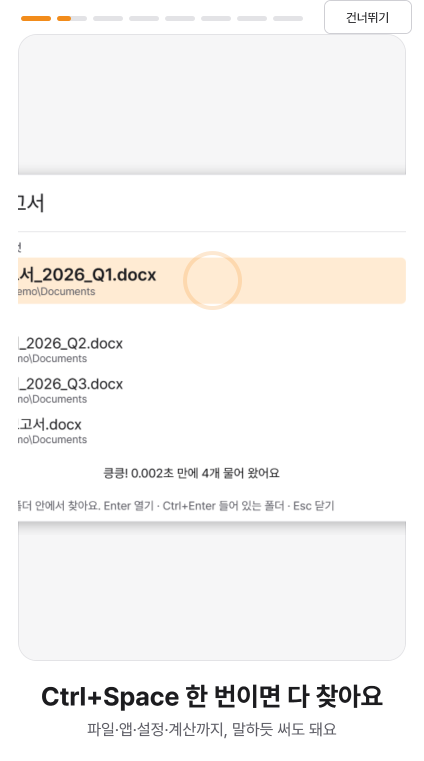
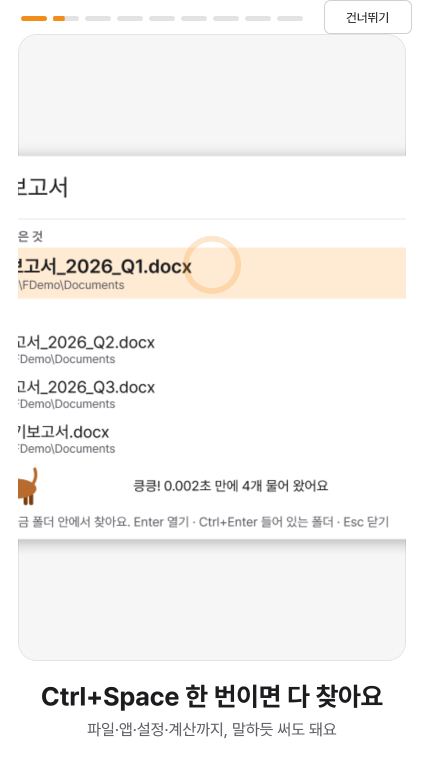
0.9.16: install the newest release in one step (service re-checks right before installing); shorts intro zoomed in and smooth (transform-only animation on every frame, fade between scenes); docs

diff --git a/src/Foldy.App/ShortsWindow.cs b/src/Foldy.App/ShortsWindow.cs
@@ -23,14 +23,14 @@ internal sealed class ShortsWindow : Window
     /// <summary>장면 목록 (다국어 준비: 문구는 여기만).</summary>
     public static readonly Scene[] Scenes =
     [
-        new("main.png", 0.55, 0.4, 1.7, 2.1, "끌어다 놓으면 복사 끝", "두 창 사이로 끌거나 F5 · 이동은 F6"),
-        new("quicksearch.png", 0.38, 0.32, 1.0, 1.2, "Ctrl+Space 한 번이면 다 찾아요", "파일·앱·설정·계산까지, 말하듯 써도 돼요"),
-        new("analysis.png", 0.72, 0.3, 1.5, 1.9, "용량 범인을 한눈에", "큰 상자가 큰 폴더 · 지워도 되는 것만 골라 줘요"),
-        new("guide.png", 0.45, 0.25, 1.05, 1.3, "쌓인 바탕화면, 한 번에 정리", "'바탕화면 보관' 폴더에 달별·종류별로 · 되돌리기 한 번이면 원래대로"),
-        new("organize.png", 0.5, 0.33, 1.3, 1.6, "어지러운 폴더도 종류·날짜별로 정리", "지금과 정리 후를 먼저 보여 줘요 · 지우지 않고 되돌릴 수 있어요"),
-        new("memo.png", 0.72, 0.18, 1.0, 1.3, "비밀번호는 잠긴 메모에", "5분 동안 안 쓰면 저절로 잠겨요"),
-        new("template-picker.png", 0.78, 0.3, 1.2, 1.5, "폴더 구조를 클릭 한 번에", "Java·PARA·Claude 프로젝트 등 · 미리 보고 만들어요"),
-        new("git-changes.png", 0.5, 0.35, 1.5, 1.8, "프로젝트 폴더면 Git이 저절로", "받기·올리기·커밋을 버튼으로"),
+        new("main.png", 0.62, 0.38, 1.65, 1.95, "끌어다 놓으면 복사 끝", "두 창 사이로 끌거나 F5 · 이동은 F6"),
+        new("quicksearch.png", 0.45, 0.3, 1.70, 2.00, "Ctrl+Space 한 번이면 다 찾아요", "파일·앱·설정·계산까지, 말하듯 써도 돼요"),
+        new("analysis.png", 0.8, 0.28, 1.65, 1.90, "용량 범인을 한눈에", "큰 상자가 큰 폴더 · 지워도 되는 것만 골라 줘요"),
+        new("guide.png", 0.5, 0.22, 1.70, 1.95, "쌓인 바탕화면, 한 번에 정리", "'바탕화면 보관' 폴더에 달별·종류별로 · 되돌리기 한 번이면 원래대로"),
+        new("organize.png", 0.55, 0.3, 1.65, 1.90, "어지러운 폴더도 종류·날짜별로 정리", "지금과 정리 후를 먼저 보여 줘요 · 지우지 않고 되돌릴 수 있어요"),
+        new("memo.png", 0.72, 0.17, 1.75, 2.05, "비밀번호는 잠긴 메모에", "5분 동안 안 쓰면 저절로 잠겨요"),
+        new("template-picker.png", 0.76, 0.28, 1.65, 1.90, "폴더 구조를 클릭 한 번에", "Java·PARA·Claude 프로젝트 등 · 미리 보고 만들어요"),
+        new("git-changes.png", 0.55, 0.32, 1.65, 1.90, "프로젝트 폴더면 Git이 저절로", "받기·올리기·커밋을 버튼으로"),
     ];
 
     public const string EndTitle = "이제 시작해 볼까요?";
@@ -40,6 +40,9 @@ internal sealed class ShortsWindow : Window
 
     private readonly Grid _stage = new() { ClipToBounds = true };
     private readonly Image _image = new() { Stretch = Stretch.Fill };
+    private readonly MatrixTransform _move = new();
+    private readonly TranslateTransform _tapMove = new();
+    private readonly ScaleTransform _tapScale = new();
     private readonly Ellipse _tap = new() { Width = 46, Height = 46, StrokeThickness = 4, IsHitTestVisible = false };
     private readonly TextBlock _title = new() { FontSize = 26, FontWeight = FontWeights.Bold, TextWrapping = TextWrapping.Wrap, TextAlignment = TextAlignment.Center };
     private readonly TextBlock _sub = new() { FontSize = 16, TextWrapping = TextWrapping.Wrap, TextAlignment = TextAlignment.Center, Margin = new Thickness(0, 8, 0, 0) };
@@ -47,7 +50,6 @@ internal sealed class ShortsWindow : Window
     private readonly Button _skip = new() { Content = "건너뛰기", MinHeight = 34, MinWidth = 88, Padding = new Thickness(12, 2, 12, 2) };
     private readonly Button _start = new() { Content = "시작하기", MinHeight = 44, MinWidth = 160, FontSize = 17, IsDefault = true, Visibility = Visibility.Collapsed, Margin = new Thickness(0, 18, 0, 0) };
     private readonly Canvas _canvas = new();
-    private readonly DispatcherTimer _clock;
     private readonly string _imageDir;
     private int _index;
     private TimeSpan _elapsed;
@@ -124,13 +126,19 @@ internal sealed class ShortsWindow : Window
         };
         _stage.Cursor = Cursors.Hand;
         PreviewKeyDown += OnKey;
-        _clock = new DispatcherTimer(TimeSpan.FromMilliseconds(33), DispatcherPriority.Render, (_, _) => Tick(), Dispatcher);
+        // 움직임은 화면을 새로 그릴 때마다(모니터 주사율) 변환만 바꾼다: 배치를 다시 하지 않아 끊기지 않는다
+        _image.RenderTransform = _move;
+        RenderOptions.SetBitmapScalingMode(_image, BitmapScalingMode.Linear);
+        _image.CacheMode = new BitmapCache { RenderAtScale = 2 };
+        _tap.RenderTransform = new TransformGroup { Children = { _tapScale, _tapMove } };
+        _tap.Width = _tap.Height = 40;
+        _tapScale.CenterX = _tapScale.CenterY = 20;
         Loaded += (_, _) =>
         {
             Go(0);
-            _clock.Start();
+            CompositionTarget.Rendering += OnFrame;
         };
-        Closed += (_, _) => _clock.Stop();
+        Closed += (_, _) => CompositionTarget.Rendering -= OnFrame;
         if (App.UiScale > 1.001)
         {
             Width *= Math.Min(App.UiScale, 1.15);
@@ -164,6 +172,14 @@ internal sealed class ShortsWindow : Window
         }
 
         _image.Source = _bitmap;
+        if (_bitmap is not null)
+        {
+            _image.Width = _bitmap.PixelWidth / 2.0; // 캡처는 2배로 찍혀 있다: 원래 크기로 두고 변환으로만 확대
+            _image.Height = _bitmap.PixelHeight / 2.0;
+        }
+
+        // 장면이 바뀔 때 부드럽게 (0.35초 동안 서서히 나타남)
+        _canvas.BeginAnimation(OpacityProperty, new System.Windows.Media.Animation.DoubleAnimation(0, 1, TimeSpan.FromMilliseconds(350)));
         _image.Opacity = end ? 0.25 : 1;
         Render();
     }
@@ -218,6 +234,8 @@ internal sealed class ShortsWindow : Window
         e.Handled = true;
     }
 
+    private void OnFrame(object? sender, EventArgs e) => Tick();
+
     private void Tick()
     {
         var now = DateTime.UtcNow;
@@ -242,7 +260,14 @@ internal sealed class ShortsWindow : Window
         {
             var track = (Border)_bars.Children[i];
             var fill = (Border)track.Child;
-            fill.Width = track.Width * (i < _index ? 1 : i == _index ? (_index == Scenes.Length ? 1 : u) : 0);
+            fill.Width = track.Width;
+            var amount = i < _index ? 1 : i == _index ? (_index == Scenes.Length ? 1 : u) : 0;
+            if (fill.RenderTransform is not ScaleTransform st)
+            {
+                fill.RenderTransform = st = new ScaleTransform(0, 1);
+            }
+
+            st.ScaleX = amount;
         }
 
         var w = _canvas.ActualWidth;
@@ -253,45 +278,28 @@ internal sealed class ShortsWindow : Window
             return;
         }
 
-        var scene = _index < Scenes.Length ? Scenes[_index] : new Scene("main.png", 0.5, 0.5, 1, 1, "", "");
-        var iw = _bitmap.PixelWidth / 2.0; // 캡처는 2배로 찍혀 있다
+        var end = _index >= Scenes.Length;
+        var scene = end ? new Scene("main.png", 0.5, 0.5, 1, 1, "", "") : Scenes[_index];
+        var iw = _bitmap.PixelWidth / 2.0;
         var ih = _bitmap.PixelHeight / 2.0;
         var ease = u * u * (3 - (2 * u));
-        var cover = Math.Max(w / iw, h / ih);
-        var fit = Math.Min(w / iw, h / ih);
-        var baseScale = iw / ih > 3 ? h * 0.4 / ih : Math.Max(fit, cover * 0.55); // 넓은 화면은 너무 잘리지 않게 (위아래 여백 허용), 긴 띠(농구 장면)는 크게 보이며 옆으로 흐른다
-        var s = baseScale * (scene.ZoomFrom + ((scene.ZoomTo - scene.ZoomFrom) * ease));
+        // 확대: 장면마다 정한 배율(원래 크기 대비, 글씨가 잘 보이게). 마지막 장은 전체가 흐릿하게 보이게 맞춤
+        var s = end ? Math.Min(w / iw, h / ih) : scene.ZoomFrom + ((scene.ZoomTo - scene.ZoomFrom) * ease);
         var dw = iw * s;
         var dh = ih * s;
-        var fx = iw / ih > 3 ? Lerp(0.15, 0.85, ease) : scene.FocusX;
-        var left = Math.Clamp((w / 2) - (fx * dw), Math.Min(0, w - dw), Math.Max(0, w - dw));
-        var top = Math.Clamp((h / 2) - (scene.FocusY * dh), Math.Min(0, h - dh), Math.Max(0, h - dh));
-        if (dw <= w)
-        {
-            left = (w - dw) / 2;
-        }
-
-        if (dh <= h)
-        {
-            top = (h - dh) / 2;
-        }
-
-        _image.Width = dw;
-        _image.Height = dh;
-        Canvas.SetLeft(_image, left);
-        Canvas.SetTop(_image, top);
+        var left = dw <= w ? (w - dw) / 2 : Math.Clamp((w / 2) - (scene.FocusX * dw), w - dw, 0);
+        var top = dh <= h ? (h - dh) / 2 : Math.Clamp((h / 2) - (scene.FocusY * dh), h - dh, 0);
+        _move.Matrix = new Matrix(s, 0, 0, s, left, top);
 
         // 누를 곳에서 동그라미가 톡톡 (1.4초마다 커지며 흐려진다)
-        var showTap = _index < Scenes.Length && iw / ih <= 3;
-        _tap.Visibility = showTap ? Visibility.Visible : Visibility.Collapsed;
-        if (showTap)
+        _tap.Visibility = end ? Visibility.Collapsed : Visibility.Visible;
+        if (!end)
         {
             var phase = (_elapsed.TotalSeconds % 1.4) / 1.4;
-            var size = 30 + (phase * 36);
-            _tap.Width = _tap.Height = size;
+            _tapScale.ScaleX = _tapScale.ScaleY = 0.75 + (phase * 0.9);
             _tap.Opacity = 1 - phase;
-            Canvas.SetLeft(_tap, left + (scene.FocusX * dw) - (size / 2));
-            Canvas.SetTop(_tap, top + (scene.FocusY * dh) - (size / 2));
+            _tapMove.X = left + (scene.FocusX * dw) - 20;
+            _tapMove.Y = top + (scene.FocusY * dh) - 20;
         }
     }
 

diff --git a/engine/foldy-index/src/update/mod.rs b/engine/foldy-index/src/update/mod.rs
@@ -133,6 +133,8 @@ struct Inner {
     m: Machine,
     st: UpdateState,
     check_requested: bool,
+    /// 설치 요청을 받았다: 설치 직전에 최신 버전을 한 번 더 확인한다
+    refresh_before_install: bool,
     watch: Option<StartWatch>,
     /// 업데이트 폴더 보안 설정이 실패함: 확인·다운로드·설치를 하지 않는다
     unsafe_dir: bool,
@@ -180,7 +182,7 @@ impl UpdateService {
         Arc::new(UpdateService {
             cfg,
             host,
-            inner: Mutex::new(Inner { m: Machine::default(), st: UpdateState::default(), check_requested: false, watch: None, unsafe_dir: false }),
+            inner: Mutex::new(Inner { m: Machine::default(), st: UpdateState::default(), check_requested: false, refresh_before_install: false, watch: None, unsafe_dir: false }),
             kick: Notify::new(),
         })
     }
@@ -231,7 +233,12 @@ impl UpdateService {
             MsgType::InstallWhenIdle => match decode_body::<InstallWhenIdle>(body) {
                 Ok(req) => {
                     let session = choose_session(req.session_id, pipe_session, self.host.active_console_session());
-                    let r = self.lock().m.request_install(InstallRequest { relaunch: req.relaunch, session_id: session });
+                    let mut g = self.lock();
+                    let r = g.m.request_install(InstallRequest { relaunch: req.relaunch, session_id: session });
+                    if r.is_ok() {
+                        g.refresh_before_install = true; // 설치 직전에 최신인지 한 번 더 (중간 버전을 거치지 않게)
+                    }
+                    drop(g);
                     match r {
                         Ok(()) => {
                             self.kick.notify_one();
@@ -311,6 +318,10 @@ impl UpdateService {
             if std::mem::take(&mut self.lock().check_requested) {
                 let s = self.clone();
                 let _ = tokio::task::spawn_blocking(move || s.check_blocking()).await;
+            }
+            if std::mem::take(&mut self.lock().refresh_before_install) {
+                let s = self.clone();
+                let _ = tokio::task::spawn_blocking(move || s.refresh_blocking()).await;
             }
             if self.lock().m.install.is_some() {
                 self.clone().install().await;
@@ -468,6 +479,51 @@ impl UpdateService {
             self.prune(&g.st, &r.path);
         }
         g.m.finish_check(checked);
+        self.save(&g);
+    }
+
+    /// 설치 직전 확인: 준비된 것보다 새 버전이 나왔으면 받아서 그것으로 설치한다 (1.0 → 1.3을 1.1·1.2를 거치지 않고 한 번에).
+    pub fn refresh_blocking(&self) {
+        let (mut st, channel) = {
+            let mut g = self.lock();
+            if g.unsafe_dir || !g.m.begin_refresh() {
+                return;
+            }
+            let mut st = g.st.clone();
+            st.etag = None; // 지난 확인의 "바뀐 것 없음"에 기대지 않고 지금 최신을 본다
+            (st, Self::channel(&g.st))
+        };
+        let result = {
+            let _bg = win::BackgroundPriority::enter();
+            self.run_check(&mut st, channel)
+        };
+        let mut g = self.lock();
+        g.st.etag = st.etag;
+        g.st.etag_channel = st.etag_channel;
+        g.st.last_check_unix = st.last_check_unix;
+        let checked = match result {
+            Ok(Outcome::Ready(p)) => match p.manifest.asset(PackageKind::Msi) {
+                Some(a) if p.mandatory || !g.st.is_skipped(&p.version) => Ok(Checked::Ready(Ready {
+                    version: p.version.clone(),
+                    path: p.path.clone(),
+                    asset: a.clone(),
+                    mandatory: p.mandatory,
+                    notes: p.notes.clone(),
+                })),
+                _ => Ok(Checked::Nothing),
+            },
+            Ok(_) => Ok(Checked::Nothing),
+            Err(e) => Err(e.to_string()),
+        };
+        let before = g.m.ready.as_ref().map(|r| r.version.clone());
+        g.m.finish_refresh(checked);
+        if let Some(r) = g.m.ready.as_ref()
+            && before.as_ref() != Some(&r.version)
+        {
+            self.log(&format!("설치 직전 확인: 더 새 버전 {}으로 바로 설치합니다", r.version));
+            let keep = r.path.clone();
+            self.prune(&g.st, &keep);
+        }
         self.save(&g);
     }
 

diff --git a/engine/foldy-index/src/update/machine.rs b/engine/foldy-index/src/update/machine.rs
@@ -98,6 +98,28 @@ impl Machine {
         true
     }
 
+    /// 설치 직전에 한 번 더 확인 (사용자 요청 2026-11-21: 버전 차이가 크면 중간 버전을 거치지 말고 최신으로 한 번에).
+    /// 설치를 기다리는 중에도 허락한다. 결과가 "새것 없음"이어도 이미 준비된 업데이트는 버리지 않는다(<see cref="finish_refresh"/>).
+    pub fn begin_refresh(&mut self) -> bool {
+        if self.phase.busy() {
+            return false;
+        }
+        self.phase = Phase::Checking;
+        self.progress = (0, 0);
+        true
+    }
+
+    /// 설치 직전 확인의 결과: 더 새 버전이 준비됐으면 그것으로 바꾸고, 그 밖에는 이미 준비된 것을 그대로 쓴다.
+    pub fn finish_refresh(&mut self, r: Result<Checked, String>) {
+        if let Ok(Checked::Ready(newer)) = r
+            && self.ready.as_ref().is_none_or(|old| newer.version > old.version)
+        {
+            self.ready = Some(newer);
+        }
+        self.last_error = None;
+        self.phase = if self.ready.is_some() { Phase::ReadyToInstall } else { Phase::Idle };
+    }
+
     pub fn on_progress(&mut self, done: u64, total: u64) {
         if matches!(self.phase, Phase::Checking | Phase::Downloading) {
             self.phase = Phase::Downloading;
@@ -333,6 +355,33 @@ mod tests {
         m.install_succeeded();
         assert_eq!(m.phase, Phase::Idle);
         assert!(m.ready.is_none());
+    }
+
+    #[test]
+    fn refresh_before_install_switches_to_the_latest_version() {
+        let mut m = Machine::default();
+        m.begin_check();
+        m.finish_check(Ok(Checked::Ready(ready("1.2.3"))));
+        m.request_install(REQ).unwrap();
+        // 설치를 기다리는 동안에도 한 번 더 확인한다: 그사이 1.2.5가 나왔으면 그것으로 한 번에
+        assert!(m.begin_refresh());
+        m.finish_refresh(Ok(Checked::Ready(ready("1.2.5"))));
+        let (r, _) = m.take_install().unwrap();
+        assert_eq!(r.version, Version::new(1, 2, 5));
+    }
+
+    #[test]
+    fn refresh_keeps_the_ready_update_when_nothing_newer_or_offline() {
+        for result in [Ok(Checked::Nothing), Ok(Checked::NotModified), Err("인터넷 없음".to_string()), Ok(Checked::Ready(ready("1.2.2")))] {
+            let mut m = Machine::default();
+            m.begin_check();
+            m.finish_check(Ok(Checked::Ready(ready("1.2.3"))));
+            m.request_install(REQ).unwrap();
+            assert!(m.begin_refresh());
+            m.finish_refresh(result);
+            let (r, _) = m.take_install().unwrap();
+            assert_eq!(r.version, Version::new(1, 2, 3), "새것이 없거나 확인 못 해도 준비된 것으로 설치한다");
+        }
     }
 
     #[test]

diff --git a/docs/DECISIONS.md b/docs/DECISIONS.md
@@ -2,6 +2,15 @@
 
 정한 것을 짧게 남긴다: 날짜, 무엇을, 왜, 다른 안. 최근 것이 위.
 
+## 2026-11-21 · 업데이트는 늘 최신 버전으로 한 번에 (0.9.16, 사용자 요청)
+- **경위**: "버전 차이가 많을 때 여러 번 업데이트하는 것 같다." 서비스는 확인할 때(6시간마다) 받은 버전을 준비해 두는데, 그사이 더 새 버전이 나와도 [재시작하고 업데이트]를 누르면 준비해 둔 예전 버전을 설치하고, 다음 확인에서 또 업데이트했다.
+- **결정**: 설치 요청(InstallWhenIdle)을 받으면 설치 직전에 한 번 더 확인한다(지난 확인 결과에 기대지 않고). 더 새 버전이 있으면 그것을 받아 검증한 뒤 **그것으로 한 번에** 설치한다. 새것이 없거나 인터넷이 안 되면 준비해 둔 것으로 설치한다(설치를 막지 않는다). 기록: "설치 직전 확인: 더 새 버전 x로 바로 설치합니다". 시험: 상태 기계 테스트 2개.
+- **MSI는 중간 버전이 필요 없다**: Foldy MSI는 메이저 업그레이드라 어느 버전에서든 최신으로 바로 올라간다.
+
+## 2026-11-21 · 짧은 소개를 크게, 부드럽게 (0.9.16, 사용자 요청)
+- **경위**: "동영상이 끊기고 내용이 작아서 안 보인다."
+- **결정**: 끊김 원인은 0.033초마다 그림의 너비·위치를 바꿔 화면 배치를 매번 다시 한 것. 이제 그림 크기는 그대로 두고 변환(행렬)만 바꾸며, 모니터가 화면을 새로 그릴 때마다(CompositionTarget.Rendering) 움직인다. 진행 막대도 너비 대신 비율 변환. 장면이 바뀔 때 0.35초 동안 서서히 나타난다. 확대는 화면 캡처 원래 크기의 1.65~2배(글씨가 앱보다 크게 보이게), 누를 곳 둘레만 보인다.
+
 ## 2026-11-21 · 처음 소개는 쇼츠처럼 (0.9.13, 사용자 요청)
 - **경위**: "주요 기능 소개를 처음 실행할 때 안내해 줘. 글을 읽기 싫어하니까 쇼츠처럼 동영상 화면으로."
 - **결정**: 글로 된 5장짜리 둘러보기 대신, 세로 화면의 짧은 소개(ShortsWindow). 장면마다 실제 Foldy 화면(도움말과 같은 캡처)이 천천히 다가가고(줌·이동), 누를 곳에서 동그라미가 톡톡 뛰고, 글은 큰 한 줄 + 작은 한 줄. 5.5초마다 저절로 넘어가고 위쪽 막대가 몇 번째인지 보인다. 오른쪽을 누르면 다음, 왼쪽은 이전, Space 멈춤, Esc·[건너뛰기]는 언제든(같은 자리). 마지막 장은 [시작하기]. 장면(8개, 약 45초): 끌어다 놓기 복사, Ctrl+Space 찾기, 폴더 분석, 바탕화면 정리, 폴더 정리(0.9.14, 사용자 요청), 잠긴 메모, 폴더 구조 템플릿, Git. 처음 안에는 농구 장면이 있었으나 사용자가 "농구 소개는 빼고 좋은 기능을 더"라고 해서 빼고 분석·템플릿·Git을 넣었다.

diff --git a/docs/PROGRESS.md b/docs/PROGRESS.md
@@ -1,4 +1,4 @@
-# Foldy 진행 현황 (2026-11-21 기준, 0.9.15)
+# Foldy 진행 현황 (2026-11-21 기준, 0.9.16)
 
 다음에 이어서 작업할 때 이 문서부터 읽는다. 설계: `docs/DESIGN.md`, 디자인 원칙: `docs/DESIGN-PRINCIPLES.md`, 결정: `docs/DECISIONS.md`, 변경: `CHANGELOG.md`, 시험: `docs/TESTING.md`, 리뷰: `docs/reviews/`.
 
@@ -12,6 +12,7 @@
 - 0.9.7: 탭 줄 SFTP 단추, 서버 트리 한 단계 펼치기.
 - 0.9.8: 수다쟁이 Foldy(원칙 1.4), 업데이트 진행 창, 트리 "불러오는 중".
 - 0.9.9: 이미지만 보기 안내 줄과 [모든 파일 보기].
+- 0.9.16: 설치 직전 최신 확인(중간 버전 건너뛰기), 쇼츠 확대·부드럽게.
 - 0.9.15: 쇼츠는 다시 설치·업데이트 뒤에도 한 번, ? 단추에서 보기.
 - 0.9.14: 쇼츠에 폴더 정리 장면.
 - 0.9.13: 처음 소개를 쇼츠처럼(ShortsWindow).

diff --git a/CHANGELOG.md b/CHANGELOG.md
@@ -1,5 +1,9 @@
 # 변경 기록
 
+## 0.9.16
+- **업데이트는 늘 최신으로 한 번에.** [재시작하고 업데이트]를 누르면 설치 직전에 한 번 더 확인해서, 그사이 더 새 버전이 나왔으면 중간 버전을 거치지 않고 바로 최신을 설치해요.
+- **짧은 소개를 크게, 부드럽게.** 화면을 더 크게 확대하고(글씨가 잘 보이게), 끊기지 않게 매끄럽게 움직이고, 장면이 바뀔 때 서서히 나타나요.
+
 ## 0.9.15
 - 짧은 소개(쇼츠)가 다시 설치하거나 업데이트한 뒤 처음 켤 때도 한 번 보여요 (설정은 다시 묻지 않아요).
 - 사이드바 아래 **?** 단추를 누르면 "짧은 소개 보기"와 "사용 설명서"를 고를 수 있어요.
